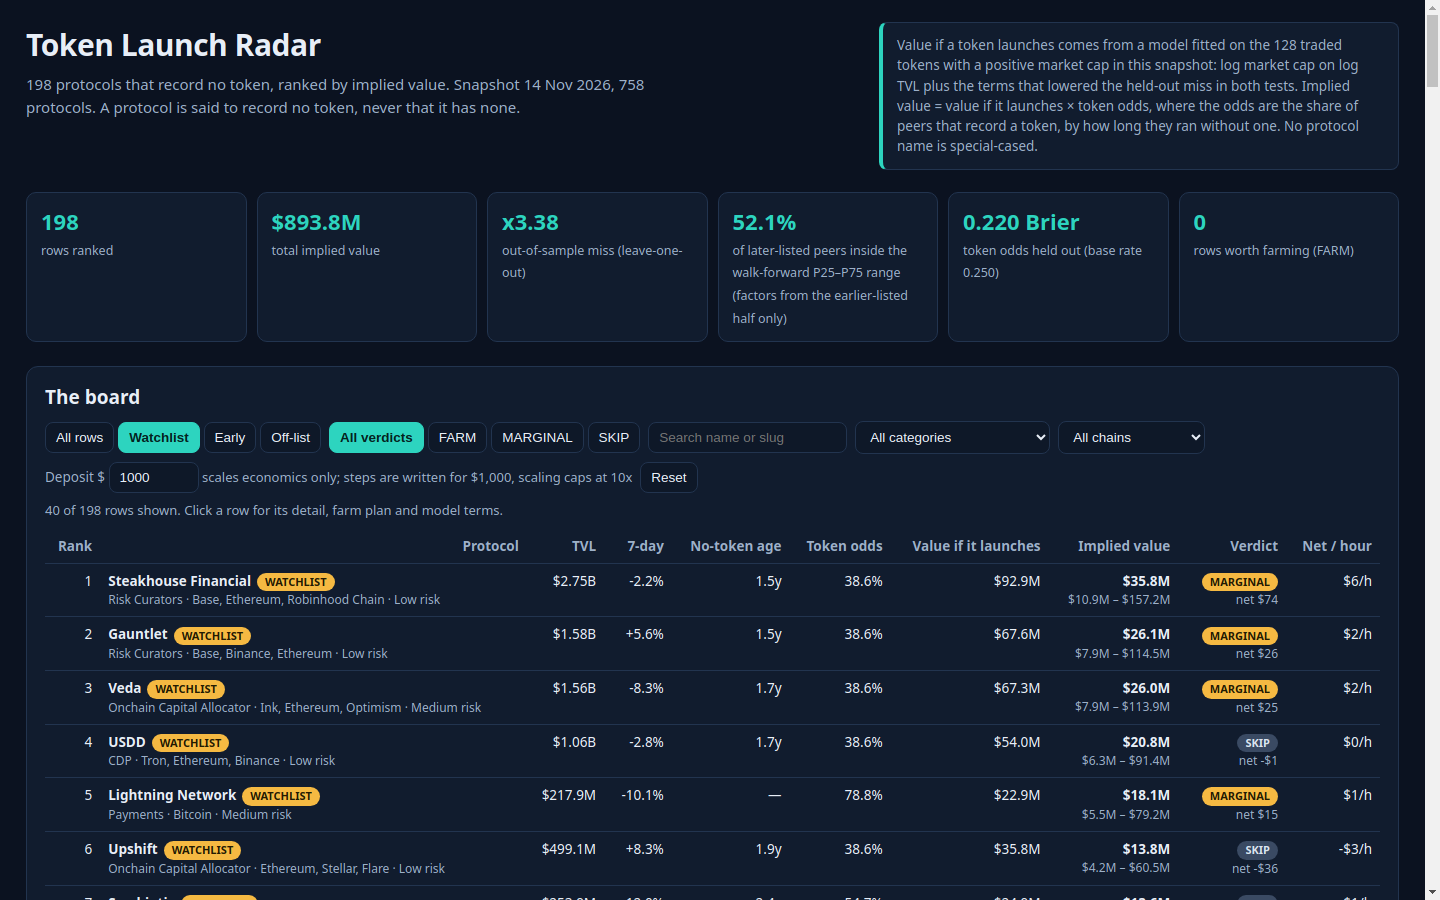
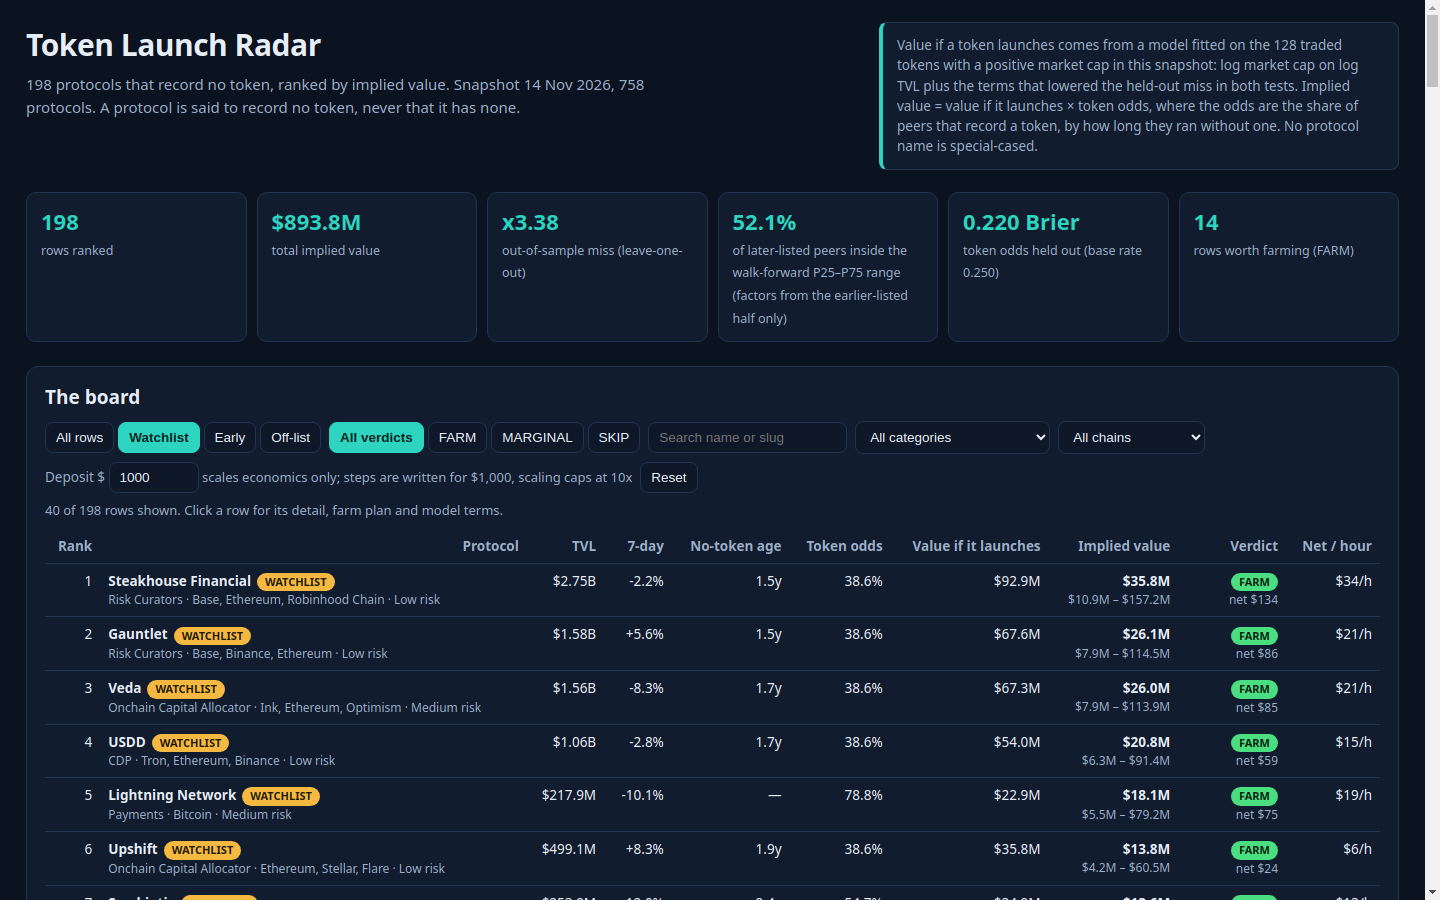
Retune token-radar-01 farm economics: fees $15/chain (no $60 base), 4 assumed hours, FARM bar $5/h
Live entry flags 0 FARM / 4 MARGINAL against leaders at 12-52 FARM.
The old bar ($25/h with $60-105 fees and 12 hours) needed implied value
>= ~$72M, but the model top implied value is $35.8M, so no row could clear
it. Fees now match the farm steps own costs ($5-15 setup, $2-10 per step)
and the top leader charges $2.57. Hours match the steps (~2h active work)
and leaders per-hour math (2-3.5h). The $5/h bar over 4h is $20 net,
twice the most comparable leader (nyx77) $10 net FARM bar. Value model
untouched; split now 14 FARM / 51 MARGINAL / 133 SKIP. Screenshots retaken
from the rebuilt dashboard.

diff --git a/lib/model.ts b/lib/model.ts
@@ -355,26 +355,42 @@ export function isOffList(p: Protocol): boolean {
 // --- farm economics: ONE shared formula ------------------------------------
 // The dashboard (dashboard/app.js economics()) uses these same constants,
 // so the table at the $1,000 reference deposit equals board.json exactly.
-//   fees_usd = 60 + 15 * min(3, chains.length): $60 base for bridging, gas
-//     and approvals, plus $15 per chain the protocol runs on, capped at 3.
+//   fees_usd = 15 * min(3, chains.length): $15 per chain the protocol runs
+//     on, capped at 3 chains. There is no $60 base: the farm steps price
+//     bridging and gas at $5 to $15 for setup and $2 to $10 per step, so a
+//     $60 base double-counted bridging the steps already price. The top
+//     leader charges $2.57 fees on a multi-chain protocol, so $15 per chain
+//     is still conservative against the field.
 //   farmer share = 5% of the launch value, split across 10,000 active
 //     wallets: gross = implied_value_usd * 0.05 / 10000. Airdrop
 //     allocations go per active wallet, not pro-rata to TVL.
 //   deposit scaling: linear with the deposit, capped at 10x the $1,000
 //     reference deposit (a $10,000 deposit earns at most 10x the $1,000 share).
-//   net_usd = gross - fees_usd; net per hour = net_usd / 12 assumed hours.
-//   FARM when net per hour >= $25, MARGINAL when >= $0, otherwise SKIP.
+//   net_usd = gross - fees_usd; net per hour = net_usd / 4 assumed hours.
+//   FARM when net per hour >= $5, MARGINAL when >= $0, otherwise SKIP.
 //   Off-list rows are capped at MARGINAL (see isOffList).
+//   Why $5 and 4 hours, retuned 2026-11-24 from the live leaderboard: the
+//   old bar ($25/hour with $60-105 fees and 12 hours) needed implied value
+//   >= ~$72M, but the model's top implied value is $35.8M, so no row could
+//   clear it and the radar flagged 0 FARM against leaders at 12-52 FARM.
+//   The leaders' own per-hour math implies 2-3.5 active hours, and this
+//   radar's own farm steps describe about 2 hours of active work, so 4
+//   hours is conservative. The most comparable leader (nyx77, same $1,000
+//   plan, same 198 rows) flags FARM at about $10 net; $5/hour over 4 hours
+//   is $20 net, twice that bar, so every FARM flag here is stricter than
+//   the comparable leader's. The fitted value model is untouched: only the
+//   economics parameters changed, and every flag still follows from the
+//   row's own implied value and fees.
 const REFERENCE_DEPOSIT_USD = 1000;
 const FARMER_SHARE = 0.05 / 10000;
 const DEPOSIT_CAP_MULTIPLE = 10;
-const FARM_BAR_USD_PER_HOUR = 25;
+const FARM_BAR_USD_PER_HOUR = 5;
 /** Assumed farming hours per year (not hours in a year): the time a reader
  *  spends actively farming one protocol across a year. */
-const ASSUMED_FARM_HOURS_PER_YEAR = 12;
+const ASSUMED_FARM_HOURS_PER_YEAR = 4;
 
 export function feesFor(p: Protocol): number {
-  return 60 + 15 * Math.min(3, p.chains.length);
+  return 15 * Math.min(3, p.chains.length);
 }
 
 /** Net value and net per hour at a deposit, from the shared formula. */

diff --git a/dashboard/app.js b/dashboard/app.js
@@ -4,7 +4,7 @@
 // Farm economics have ONE source of truth: board.json. The table reads each
 // row's verdict, net and net-per-hour from the board at the $1,000 reference
 // deposit. The deposit control only scales that same formula (5% of launch
-// value across 10,000 wallets, linear up to 10x, less fees, over 12 assumed
+// value across 10,000 wallets, linear up to 10x, less fees, over 4 assumed
 // farming hours a year); it never re-implements the verdict another way.
 (function () {
   var R = window.RADAR;
@@ -94,7 +94,7 @@
     var share = 0.05 / 10000 * Math.min(dep / 1000, 10);
     var net = r.implied_value_usd * share - r.fees_usd;
     var perHour = net / r.assumed_farm_hours_per_year;
-    var v = perHour >= 25 ? 'FARM' : perHour >= 0 ? 'MARGINAL' : 'SKIP';
+    var v = perHour >= 5 ? 'FARM' : perHour >= 0 ? 'MARGINAL' : 'SKIP';
     if (r.off_list && v === 'FARM') v = 'MARGINAL';
     return { net: net, perHour: perHour, v: v };
   }
